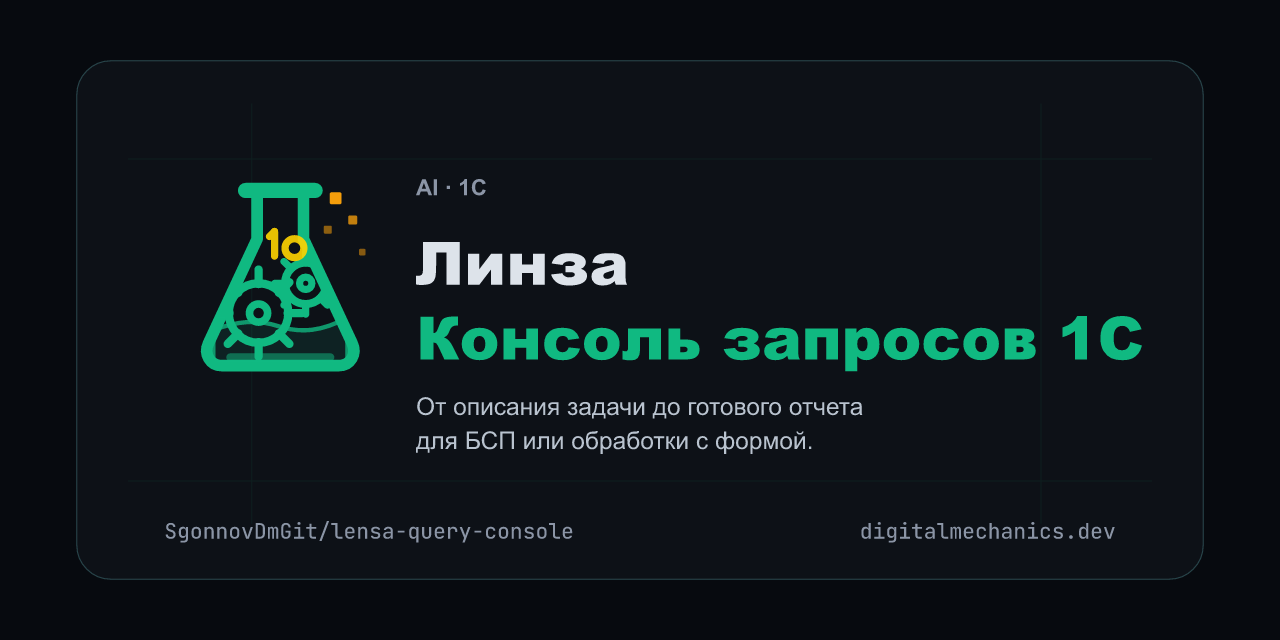
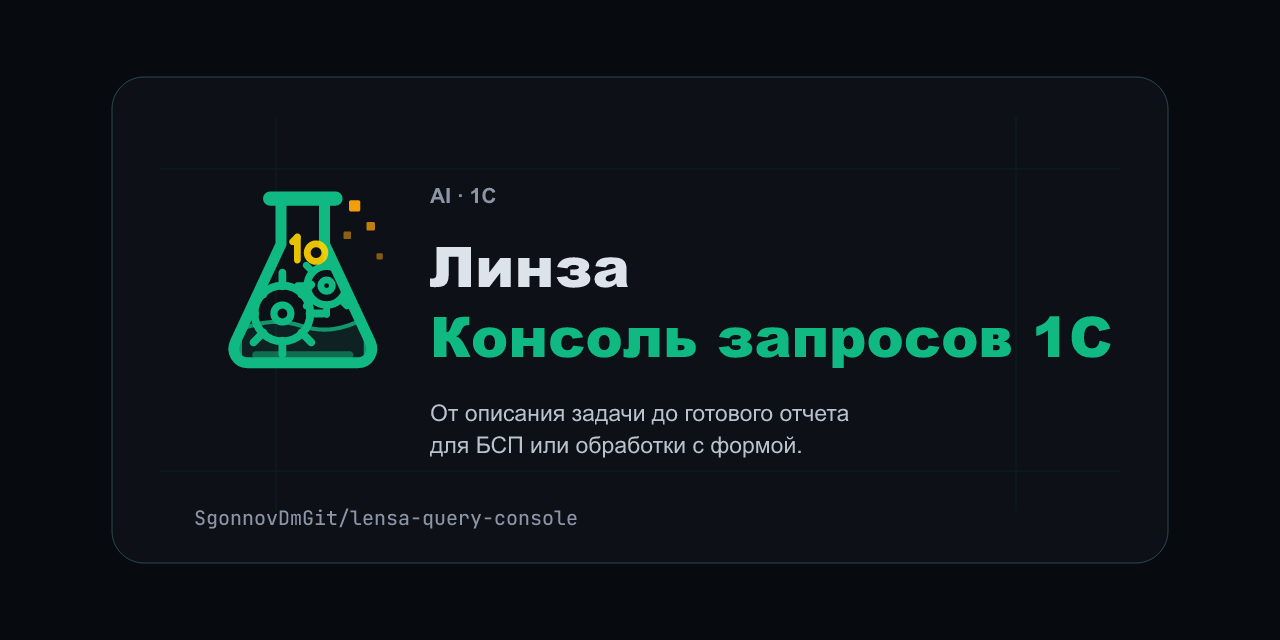
docs: убрать ссылки на сайт (условие Инфостарта)
README без строки регистрации, справка и лицензия без ссылок на
digitalmechanics.dev, карточка social preview без домена. Решение
владельца 02.10; ссылку на соглашение вернуть после публикации.

diff --git a/docs/Справка_КонсольЗапросов.md b/docs/Справка_КонсольЗапросов.md
@@ -194,7 +194,7 @@
 
 Если доступ к интернету для 1С нужно организовать через другой компьютер локальной сети, можно использовать portable-приложение [LenSA Proxy](https://github.com/SgonnovDmGit/LenSA_Proxy/releases). Оно показывает готовые хост, порт, логин и пароль для режима прокси **Настройка**.
 
-Новые параметры прокси используются при следующей проверке подключения и баланса. В настройках также находятся проверка обновления, список изменений и ссылки на сайт [digitalmechanics.dev](https://digitalmechanics.dev/).
+Новые параметры прокси используются при следующей проверке подключения и баланса. В настройках также находятся проверка обновления, список изменений и ссылки на сайт.
 
 ## Если что-то не работает
 

diff --git a/README.md b/README.md
@@ -118,8 +118,6 @@
 грант - 500. Обращение к ИИ списывает монеты, сборка готового файла стоит одну монету.
 Ключ, полученный при регистрации, открывает также канал обновлений.
 
-Регистрация: [digitalmechanics.dev](https://digitalmechanics.dev/?utm_source=github&utm_medium=repo&utm_campaign=gh-readme)
-
 ## Статус
 
 **Боевая, не превью.** Обновляется часто: с конца июля 2026 вышло больше пятидесяти

diff --git a/LICENSE.md b/LICENSE.md
@@ -24,8 +24,7 @@
 
 ## Лицензионное соглашение
 
-Полные условия использования - лицензионное соглашение на сайте:
-https://digitalmechanics.dev/eula
+Полные условия использования - лицензионное соглашение правообладателя.
 
 ## Гарантии
 
